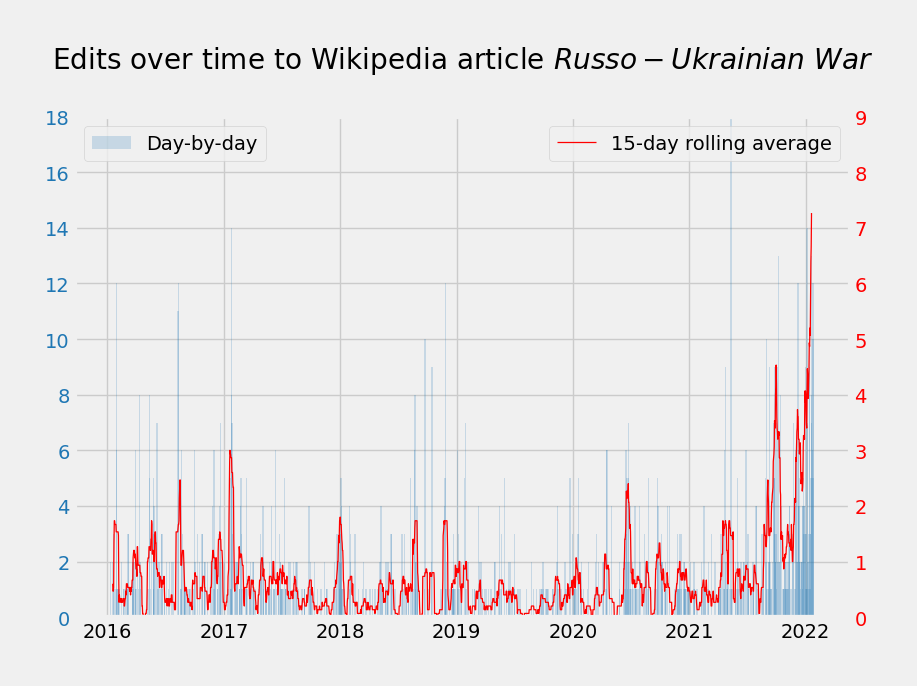
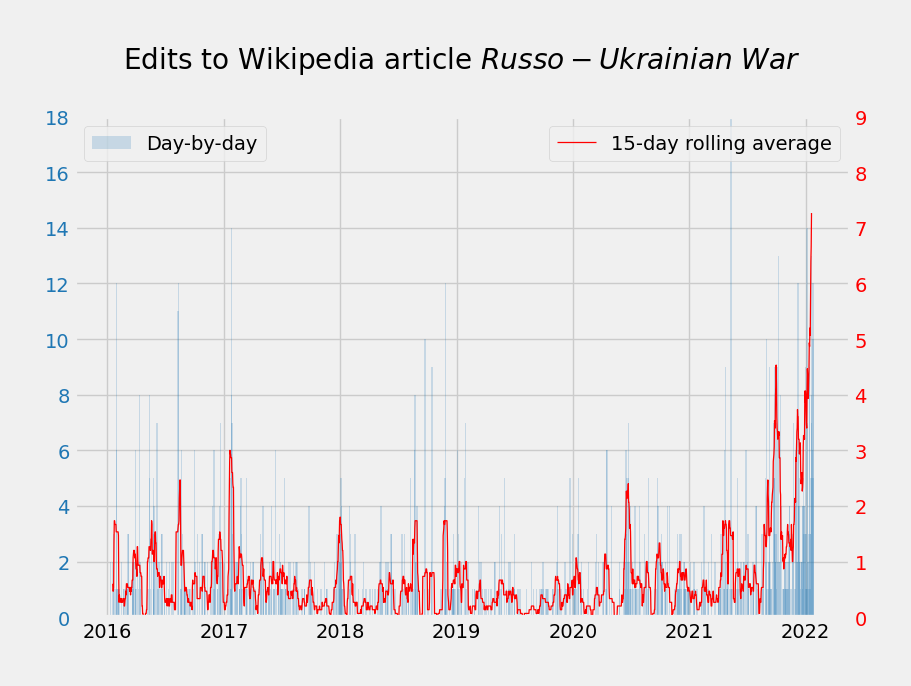
changed plot title

diff --git a/main.py b/main.py
@@ -69,6 +69,6 @@ for tl in ax2.get_yticklabels():
 
 ax1.legend(loc='upper left')
 ax2.legend(loc='upper right')
-plt.title(label='Edits over time to Wikipedia article $\it{Russo-Ukrainian}$ $\it{War}$', pad=35)
+plt.title(label='Edits to Wikipedia article $\it{Russo-Ukrainian}$ $\it{War}$', pad=35)
 fig.savefig('figure.png', bbox_inches='tight', pad_inches=0.45)
 plt.show()
